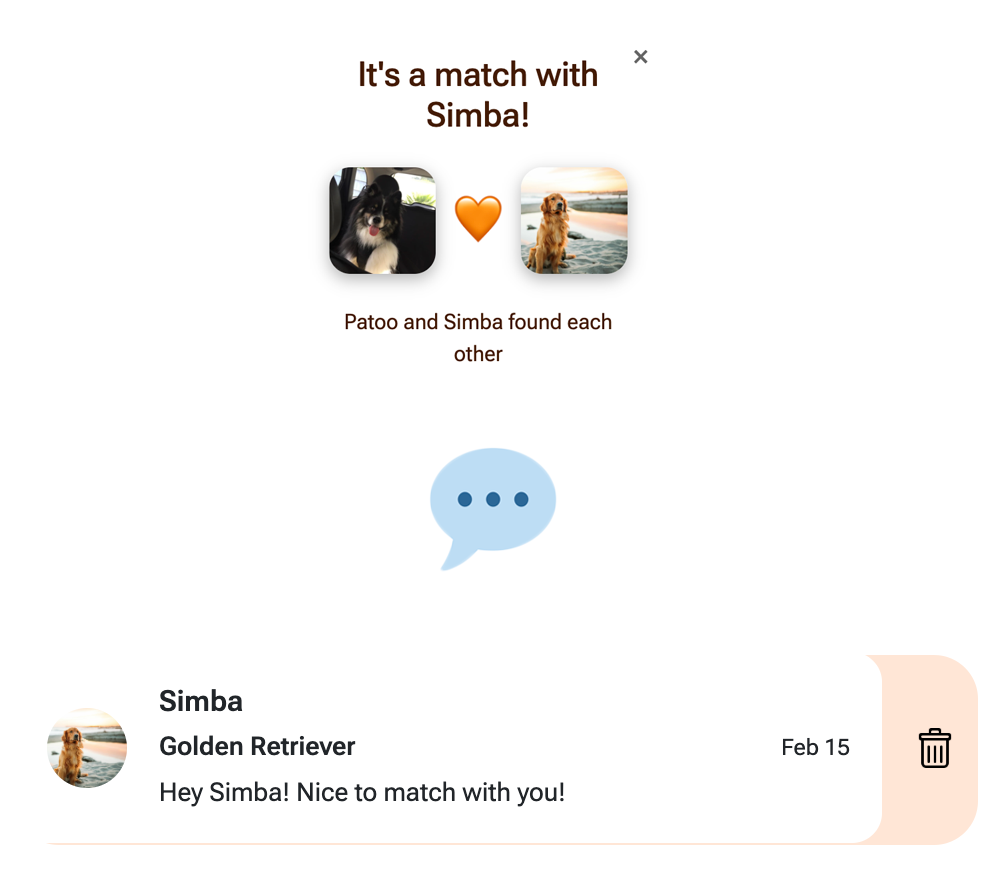
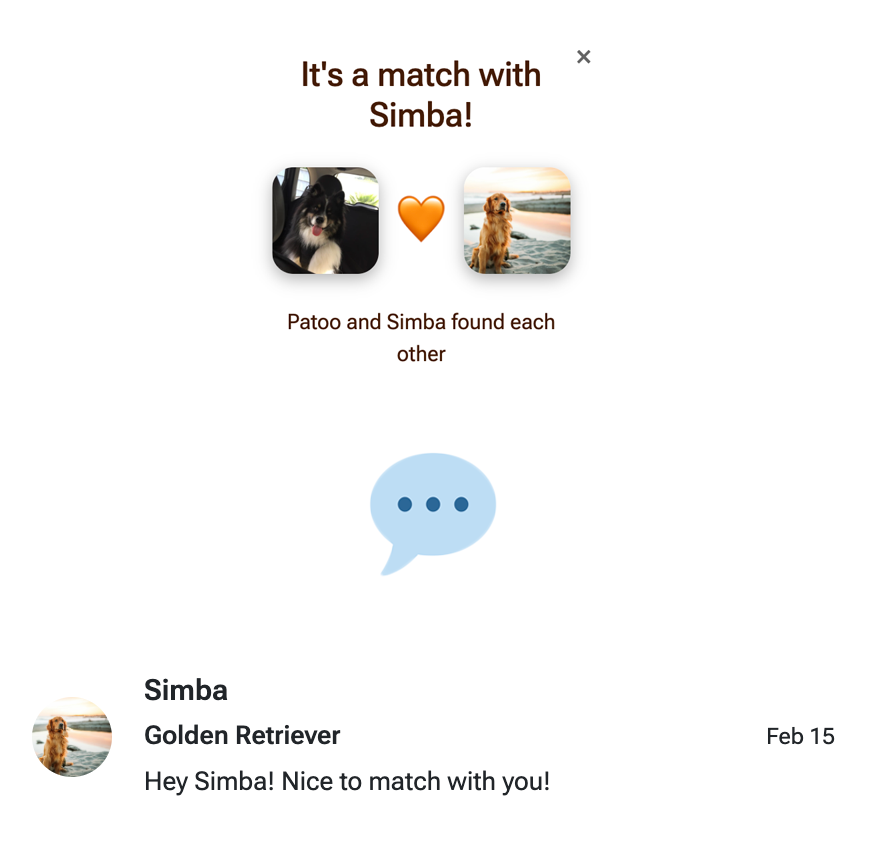
Refactor code structure for improved readability and maintainability

diff --git a/accounts/templates/accounts/home.html b/accounts/templates/accounts/home.html
@@ -42,7 +42,7 @@
       <div class="section-text">
         <h2>Find love with other pet lovers!</h2>
         <p>Browse and meet new people where you can arrange a walk in the park or a coffee date </p>
-         <img class="section-image" src="{% static 'images/people_looking_at_phone.png' %}" alt="people looking at they phone">
+         <img class="section-image" src="{% static 'images/section_1.png' %}" alt="people looking at they phone matching">
       </div>
     </div>
   </section>
@@ -53,7 +53,7 @@
       <div class="section-text">
         <h2>Your Furry Friend Is The Icebreaker!</h2>
         <p>Your pet's photo is seen first, making connections easier and more authentic. People connect through their shared love of animals.</p>
-        <img class="section-image" src="{% static 'images/' %}" alt="">
+        <img class="section-image" src="{% static 'images/section_2.png' %}" alt="Dog profile card showing a golden retriever and samoyed">
       </div>
     </div>
   </section>
@@ -64,7 +64,7 @@
       <div class="section-text">
         <h2>Chances Are The Person Is As Likeable As Their Pet!</h2>
         <p>Preview the owner before you give them a like to see them or keep browsing for more. Give a like when you find someone special!</p>
-        <img class="section-image" src="{% static 'images/' %}" alt="">
+        <img class="section-image" src="{% static 'images/section_3.png' %}" alt="Owner profile preview showing a man and a woman">
       </div>
     </div>
   </section>
@@ -75,7 +75,7 @@
       <div class="section-text">
         <h2>See If You're A Match And Chat</h2>
         <p>You both see possibilities. Chat to arrange your first date! Start your love story today.</p>
-        <img class="section-image" src="{% static 'images/' %}" alt="">
+        <img class="section-image" src="{% static 'images/section_4.png' %}" alt="Match notification and chat interface">
       </div>
     </div>
   </section>

diff --git a/static/css/style.css b/static/css/style.css
@@ -1993,6 +1993,7 @@ body.modal-open {
 /* #region RESPONSIVE DESIGN */
 /* Add breakpoints here if needed */
 
+/* Tablet: 768px+ */
 @media (min-width: 768px) {
   .discover-page {
     max-width: 520px;
@@ -2002,7 +2003,7 @@ body.modal-open {
     grid-template-columns: repeat(2, 1fr);
   }
 }
-
+/* Desktop: 992px+ */
 @media (min-width: 992px) {
   .navbar .container-fluid {
     max-width: 1800px;
@@ -2019,5 +2020,10 @@ body.modal-open {
     padding: 0.5rem 0.25rem !important;
   }
 }
+/* Large Desktop: 1200px+ */
+@media (min-width: 1200px) { }
+
+/* Extra Large: 1400px+ */
+@media (min-width: 1400px) { }
 
 /* #endregion */
